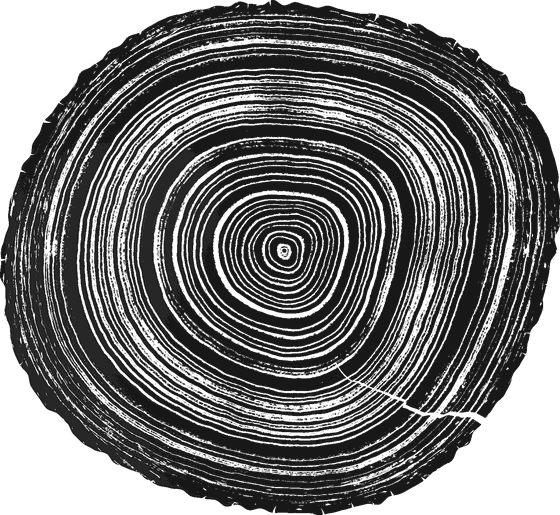
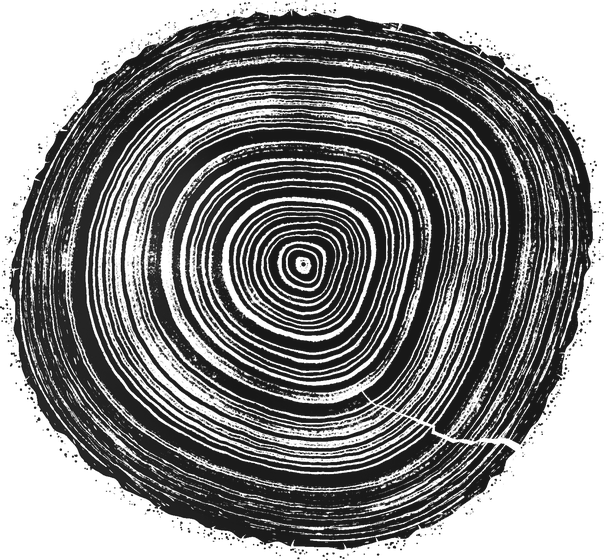
Lean, parted bark, edge stipple and starved ink, after real tree-ring prints; choice slices re-pressed
Claude-Session: https://claude.ai/code/session_01WhGxUDQ2nhT1B8pKnZrdq5

diff --git a/src/rings/press.ts b/src/rings/press.ts
@@ -396,8 +396,19 @@ const youth = (n: number) => (0.72 + 0.28 * smooth(n / 2.5)) * (1 + 0.32 * Math.
  * how far short, of the whole radius: never so strong that the swells below can't build a lobe).
  */
 const evenUp = (a: number) => (0.8 * SPEC[kind].even * (tree.radius - radiusAt((i) => tree.inner(i), a))) / Math.max(1e-3, tree.radius);
-/** How the tree itself grows round its girth, besides the hand (see `growing.ts`). */
-const growth = (a: number, n = tree.rings.length) => Math.pow(growthOf(tree.seed, a, n), SPEC[kind].amp) * SPEC[kind].width * alive(a, n);
+/** How the tree itself grows round its girth, besides the hand (see `growing.ts`), and its lean. */
+const growth = (a: number, n = tree.rings.length) => Math.pow(growthOf(tree.seed, a, n), SPEC[kind].amp) * SPEC[kind].width * alive(a, n) * leanOf(a, n);
+/**
+ * A tree is never grown evenly round: it leans, or the light comes from one side, and year after year it lays
+ * more wood on that side than the other, so its heart sits off the middle, the years wide on one side and close
+ * on the other. Its own side, from its seed, drifting a little over the years; the first dozen years even (a
+ * sapling's core is near its middle), gathering over the next sixty or so, then a third to two-thirds again as wide on the one side as the other. (`lean`, below, is
+ * the first game's.)
+ */
+const leanOf = (a: number, n: number) => {
+  const side = h1(tree.seed * 0.0417) * TAU + 0.5 * Math.sin(n / 90 + tree.seed), k = (0.12 + 0.12 * h1(tree.seed * 0.29)) * smooth((n - 12) / 60);
+  return Math.exp(k * Math.cos(a - side));
+};
 /**
  * The bristlecone, old, lives on in a strip: from its thirtieth year or so, a side of it dies back, its
  * bark gone, and grows on no more, the dead sector widening slowly; the rest grows on round it (1 where
@@ -1631,6 +1642,34 @@ function drawPrint(v: View): void {
     }
     g.restore();
   }
+  // The bark come away: as a cut slice dries, its bark parts from the wood, a hairline of paper just inside it,
+  // unbroken for long stretches, gone here and there where it still holds. (The practice only, an older slice.)
+  if (GROWN && n >= 25 && bk !== 'papery') {
+    const bark = barkOf(n - 1), T = barkCss(v), on = smooth((n - 25) / 40);
+    g.save(); g.globalCompositeOperation = 'destination-out'; g.strokeStyle = '#000'; g.lineCap = 'round';
+    const N = K * 2;
+    for (let j = 0; j < N; j++) {
+      const a0 = (j / N) * TAU, a1 = ((j + 1) / N) * TAU, held = noise(tree.seed * 0.013 + (a0 / TAU) * 9);
+      if (held > 0.25 + 0.5 * on) continue;
+      const out = T * (0.18 + 0.1 * noise(tree.seed * 0.07 + (a0 / TAU) * 23));
+      g.lineWidth = (0.5 + 0.6 * on) * px * Z * (0.6 + 0.8 * h1(j * 0.37 + tree.seed));
+      g.beginPath(); g.moveTo(...pt(a0, bark(a0), out * px)); g.lineTo(...pt(a1, bark(a1), out * px)); g.stroke();
+    }
+    g.restore();
+  }
+  // Round the edge, a faint grey of ink caught from the block's rim and the bark's loose bits: a fine stipple
+  // a few px out, thick in places and none in others.
+  if (n) {
+    const bark = barkOf(n - 1), T = barkCss(v) * px, count = Math.round((TAU * scr(Rb) * SPARSE) / (2.2 * px * Z));
+    g.fillStyle = ink(0.45); g.beginPath();
+    for (let q = 0; q < count * 1.6; q++) {
+      const a = h1(q * 0.917 + tree.seed * 0.01) * TAU;
+      if (noise(tree.seed * 0.021 + (a / TAU) * 14) < 0.4) continue;
+      const out = T + (1 + 7 * h1(q * 2.31) ** 1.6) * px * Z, [x, y] = pt(a, bark(a), out), d = (0.35 + 0.5 * h1(q * 5.7)) * px * Z;
+      g.moveTo(x + d, y); g.arc(x, y, d, 0, TAU);
+    }
+    g.fill();
+  }
   // The press: a hand-pulled print is never evenly pressed. The ink is a little paler toward one side
   // (where the press bore down less), and in a few broad, soft patches; only the ink is lightened.
   {
@@ -1643,6 +1682,16 @@ function drawPrint(v: View): void {
       const a = h1(tree.seed + q * 3.3) * TAU, d = Rs * (0.2 + 0.6 * h1(q * 7.1 + tree.seed)), rr = Rs * (0.25 + 0.3 * h1(q * 2.9));
       const x = v.cx + d * Math.cos(a), y = v.cy - d * Math.sin(a), rad = g.createRadialGradient(x, y, 0, x, y, rr);
       rad.addColorStop(0, `rgba(244,239,228,${(0.03 + 0.03 * h1(q * 5.5)).toFixed(3)})`); rad.addColorStop(1, 'rgba(244,239,228,0)');
+      g.fillStyle = rad; g.fillRect(x - rr, y - rr, 2 * rr, 2 * rr);
+    }
+    g.restore();
+    // (And where the block was inked thin, or sat low, the ink starved: a few broad patches where it thins, to
+    // be broken by the paper's tooth into a speckle.)
+    g.save(); g.globalCompositeOperation = 'destination-out';
+    for (let q = 0; q < 4; q++) {
+      const a = h1(tree.seed * 1.7 + q * 4.1) * TAU, d = Rs * (0.15 + 0.6 * h1(q * 3.9 + tree.seed * 0.3)), rr = Rs * (0.18 + 0.22 * h1(q * 6.3 + tree.seed));
+      const x = v.cx + d * Math.cos(a), y = v.cy - d * Math.sin(a), rad = g.createRadialGradient(x, y, 0, x, y, rr);
+      rad.addColorStop(0, `rgba(0,0,0,${(0.26 + 0.16 * h1(q * 2.2 + tree.seed)).toFixed(3)})`); rad.addColorStop(0.55, `rgba(0,0,0,${(0.12 + 0.08 * h1(q * 2.2 + tree.seed)).toFixed(3)})`); rad.addColorStop(1, 'rgba(0,0,0,0)');
       g.fillStyle = rad; g.fillRect(x - rr, y - rr, 2 * rr, 2 * rr);
     }
     g.restore();

diff --git a/README.md b/README.md
@@ -376,7 +376,7 @@ Locally, run `npm run dev` and open `/volcano.html`. The simulation (`src/volcan
 
 `press.html` (`src/rings/`) is a daily practice; Atlas Minor and Warm to the Touch are untouched by it. You grow one tree, a ring a day: **draw one calm loop round the slice of its trunk, and it's pressed into the wood as that day's year.** It learns from the practice of drawing one circle a day (the Zen ensō). Nothing can go wrong, and nothing is counted: no score, no streak, no dates. It's meant to be calm, and everything in it is judged by that. (It was called Annulus; saves keep the `annulus` names.) How it got here is in [RINGS-HISTORY.md](RINGS-HISTORY.md); how it's drawn, in [RINGS-STYLE.md](RINGS-STYLE.md).
 
-**The look.** A relief print of real wood: the slice is inked and pressed, as in a tree-ring print, heavy black ink on warm paper, the paper's tooth over everything. Oak's, ash's and pine's years are pressed from scans of real wood (`wood.ts`, `printYears`; see `src/rings/wood/CREDITS.md`); the other six woods' are built as each kind's are (`ANATOMY`): a light, speckled earlywood carrying its real fibre (from Hough's plates), darkening into the latewood and a crisp edge, with its fine rays and its pores where the kind has them, pressed pixel by pixel the same way. The ink takes unevenly, as a pressed block does (`inkGrain`, after a Munch woodcut's grain). The block leaves a faint press mark along the slice's outer edge (`markOf`). At rest the slice breathes, swelling by a sixtieth and settling.
+**The look.** A relief print of real wood: the slice is inked and pressed, as in a tree-ring print, heavy black ink on warm paper, the paper's tooth over everything. Oak's, ash's and pine's years are pressed from scans of real wood (`wood.ts`, `printYears`; see `src/rings/wood/CREDITS.md`); the other six woods' are built as each kind's are (`ANATOMY`): a light, speckled earlywood carrying its real fibre (from Hough's plates), darkening into the latewood and a crisp edge, with its fine rays and its pores where the kind has them, pressed pixel by pixel the same way. The ink takes unevenly, as a pressed block does (`inkGrain`, after a Munch woodcut's grain). The block leaves a faint press mark along the slice's outer edge (`markOf`), a grey stipple just beyond it, and patches where the ink starved; an older slice's bark parts from the wood, and it checks as it dries. The tree leans, so its heart comes to sit off the middle (`leanOf`). At rest the slice breathes, swelling by a sixtieth and settling.
 
 **Drawing a ring.** Touch anywhere round the slice and draw. The line is a brush, wet when unhurried, dry when quick, and evaporates behind the hand. Close the loop (or come within a short way of where it began) and the ring is laid; let go short and it rests, to be taken up again. Where it's drawn is the year's edge: a wide loop a wide year. The bark is the same size on the sheet every day, so the day's loop is drawn in the same place; the years before tighten in toward the heart.
 * **Knots and burls.** Hold the brush still a moment on the loop and a branch begins there: a knot, the branch cut across, its own few rings with the trunk's swept round it, grown over once left. Scribble back and forth and the wood burls: the rings swell and swirl round dark bud specks. Both are made of the rings themselves, pulled about where they lie (`markSwell`, `warpMarks`).

diff --git a/RINGS-HISTORY.md b/RINGS-HISTORY.md
@@ -162,3 +162,5 @@ Still to come (`trees.ts`): a redwood with fires, a bristlecone with drought, a 
 **The drawn woods as wood, not a carved block** (since October 17). The seven woods without scanned years were drawn as solid black bands, most of each ring inked, with smooth knife-cut edges and white streaks through them: a carved block, not wood. Now each is pressed pixel by pixel as oak's and ash's real years are (`printYears` without a scan), each year built as its kind's is (`ANATOMY`): a light earlywood printing as a speckled tone, with its real fibre streaking along it; darkening into the latewood (a conifer's wider for an unhurried day); a crisp line at its edge; fine rays (cherry, maple, olive); pores in the wood's own place (cherry's gathered at the year's start); the olive's dark mottle. The choosing slices pressed again with it.
 
 **Real pine** (since October 17). Pine's years are pressed from real wood: two sanded increment cores of Scots pine (public domain, T. Axelson), each year traced along its edge (`scripts/wood/trace.py`, `pinecores.py`) and inked as a conifer's year prints (`inkmap.py`'s `conifer`). Openly licensed photographs of cherry, maple and birch sections were tried too, but their rings were too faint against the grain to trace cleanly; they keep their years built from their anatomy.
+
+**From the artist's own prints** (since October 17). Looking at real tree-ring prints, four things a real pressed slice has that ours didn't: the tree leans, so its heart sits off the middle and its years run wide on one side and close on the other (`leanOf`: none for the first dozen years, gathering over the next sixty, a third to two-thirds wider on its own side); the bark parts from the wood as the slice dries, a broken hairline of paper just inside it; a faint grey stipple just beyond the edge, ink caught from the block's rim; and broad patches where the ink starved, broken by the paper's tooth into speckle. The choosing slices pressed again with them.
